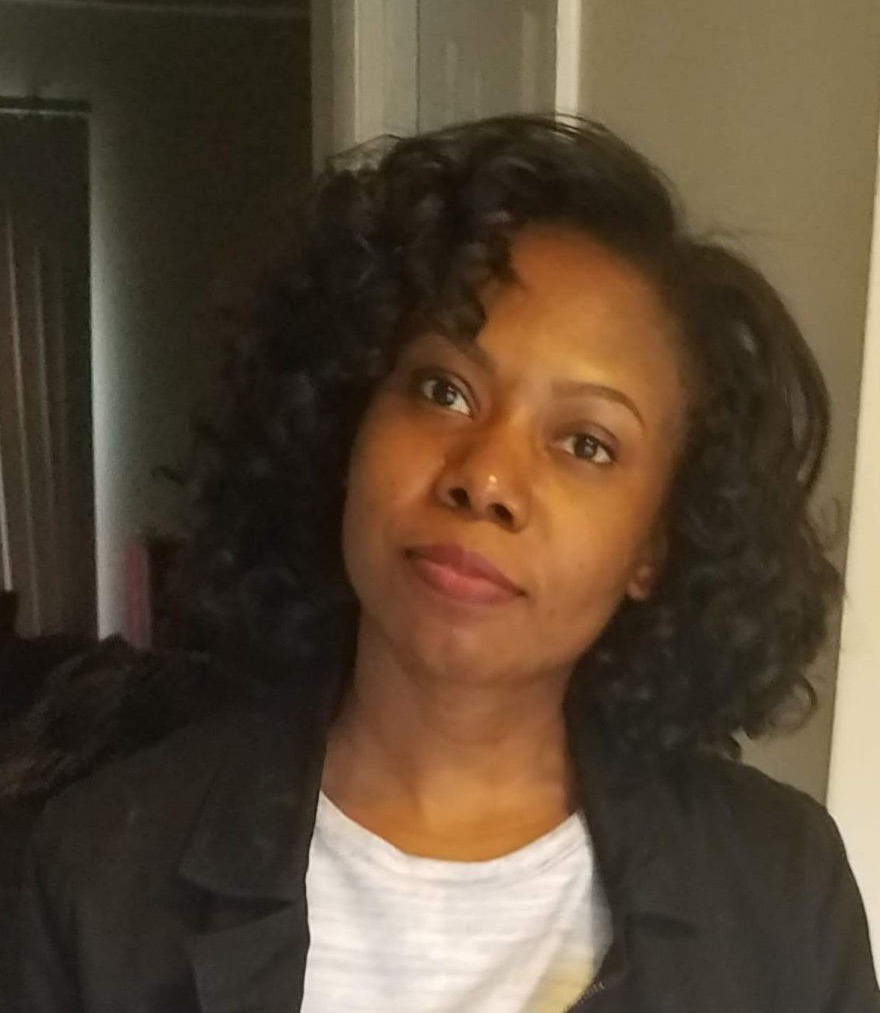
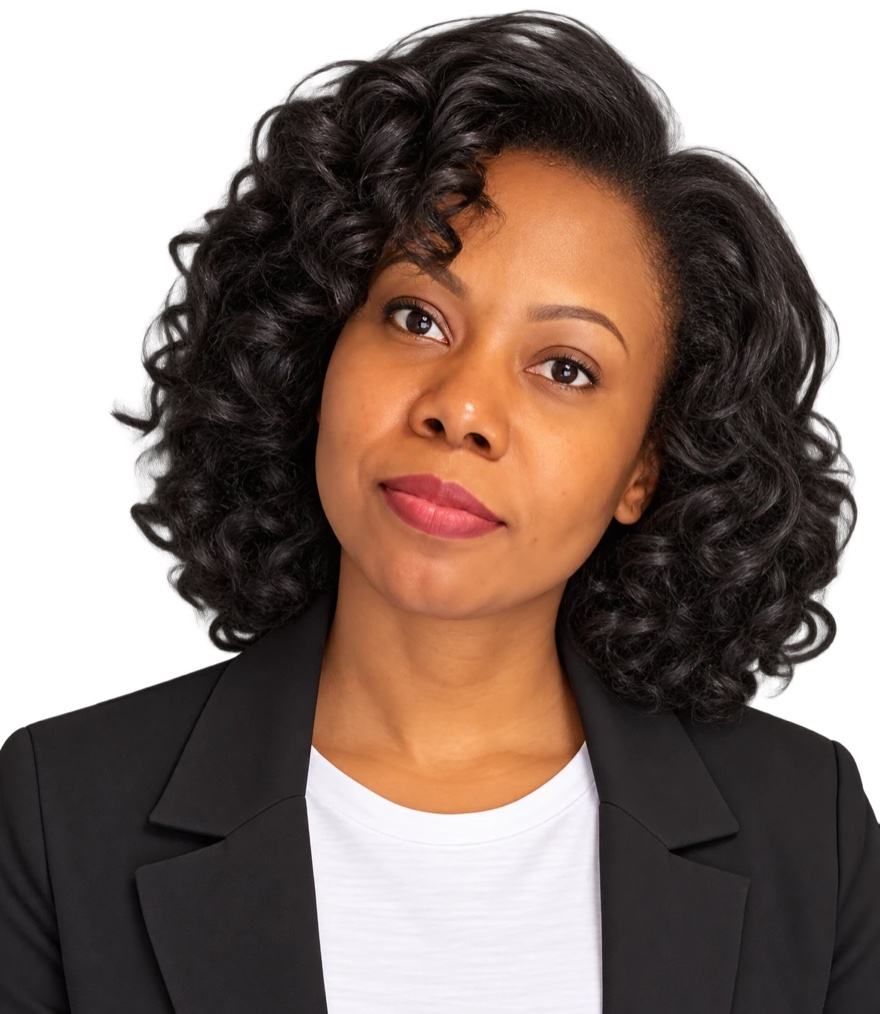
Use the new professional headshot in the hero

diff --git a/app/globals.css b/app/globals.css
@@ -357,7 +357,7 @@ a {
   height: auto;
   aspect-ratio: 4 / 5;
   object-fit: cover;
-  object-position: 55% 30%;
+  object-position: 50% 35%;
   border-radius: 999px 999px 24px 24px;
   border: 6px solid var(--surface);
   box-shadow:
